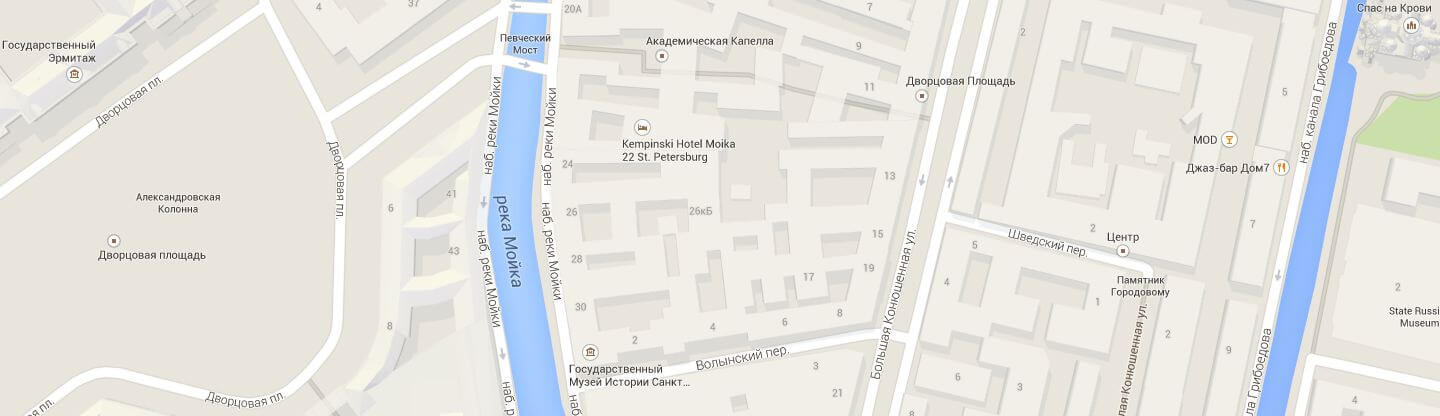
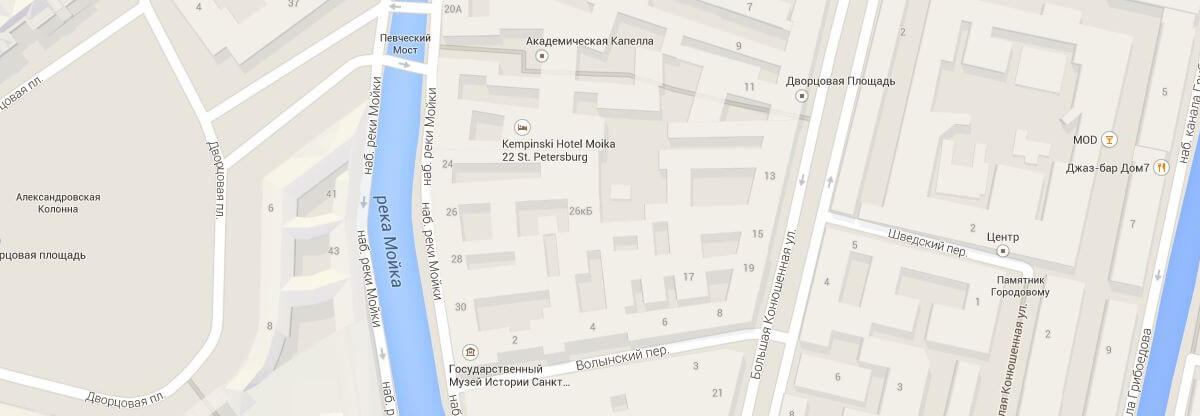
Завершаем вёрстку личного проекта

diff --git a/index.html b/index.html
@@ -136,7 +136,7 @@
     <footer class="main-footer">
     	<iframe src="https://www.google.com/maps/embed?pb=!1m18!1m12!1m3!1d1998.5991043651613!2d30.32089461614341!3d59.938794181876276!2m3!1f0!2f0!3f0!3m2!1i1024!2i768!4f13.1!3m3!1m2!1s0x4696310fca5ba729%3A0xea9c53d4493c879f!2z0JHQvtC70YzRiNCw0Y8g0JrQvtC90Y7RiNC10L3QvdCw0Y8g0YPQuy4sIDE5LCDQodCw0L3QutGCLdCf0LXRgtC10YDQsdGD0YDQsywgMTkxMTg2!5e0!3m2!1sru!2sru!4v1512325537620"  height="416" allowfullscreen></iframe>
     	<div class="map">    		
-    		<img src="img/map.jpg" width="1440" height="416" alt="Карта">
+    		<img src="img/map.jpg" width="1200" height="416" alt="Карта">
     		<span class="map-marker"><img src="img/map-marker.png" width="367" height="190" alt="Местонахождение дизайн-студии Нёрдс"></span>
     		<div class="contacts">
     			<h2>Nёrds Design Studio</h2>

diff --git a/catalog.html b/catalog.html
@@ -187,7 +187,7 @@
 		<footer class="main-footer">
 			<iframe src="https://www.google.com/maps/embed?pb=!1m18!1m12!1m3!1d1998.5991043651613!2d30.32089461614341!3d59.938794181876276!2m3!1f0!2f0!3f0!3m2!1i1024!2i768!4f13.1!3m3!1m2!1s0x4696310fca5ba729%3A0xea9c53d4493c879f!2z0JHQvtC70YzRiNCw0Y8g0JrQvtC90Y7RiNC10L3QvdCw0Y8g0YPQuy4sIDE5LCDQodCw0L3QutGCLdCf0LXRgtC10YDQsdGD0YDQsywgMTkxMTg2!5e0!3m2!1sru!2sru!4v1512325537620" height="416" allowfullscreen></iframe>
 			<div class="map">
-				<img src="img/map.jpg" width="1440" height="416" alt="Карта">
+				<img src="img/map.jpg" width="1200" height="416" alt="Карта">
       	<span class="map-marker"><img src="img/map-marker.png" width="367" height="190" alt="Местонахождение дизайн-студии Нёрдс"></span>
       	<div class="contacts">
       		<h2>Nёrds Design Studio</h2>

diff --git a/css/style.css b/css/style.css
@@ -943,14 +943,14 @@ sup {
 	z-index: 1;
 }
 .map {
-	width: 1440px;
+	width: 1200px;
 	margin: 0 auto;
 	position: relative;
 }
 .map-marker {
 	position: absolute;
 	top: 89px;
-	right: 387px;
+	right: 267px;
 	z-index: 2;
 }
 iframe {
@@ -962,7 +962,7 @@ iframe {
 .contacts {
 	position: absolute;
 	top: 55px;
-	left: 140px;
+	left: 20px;
 	padding: 50px 50px 46px;
 	width: 220px;
 	background-color: #ffffff;
